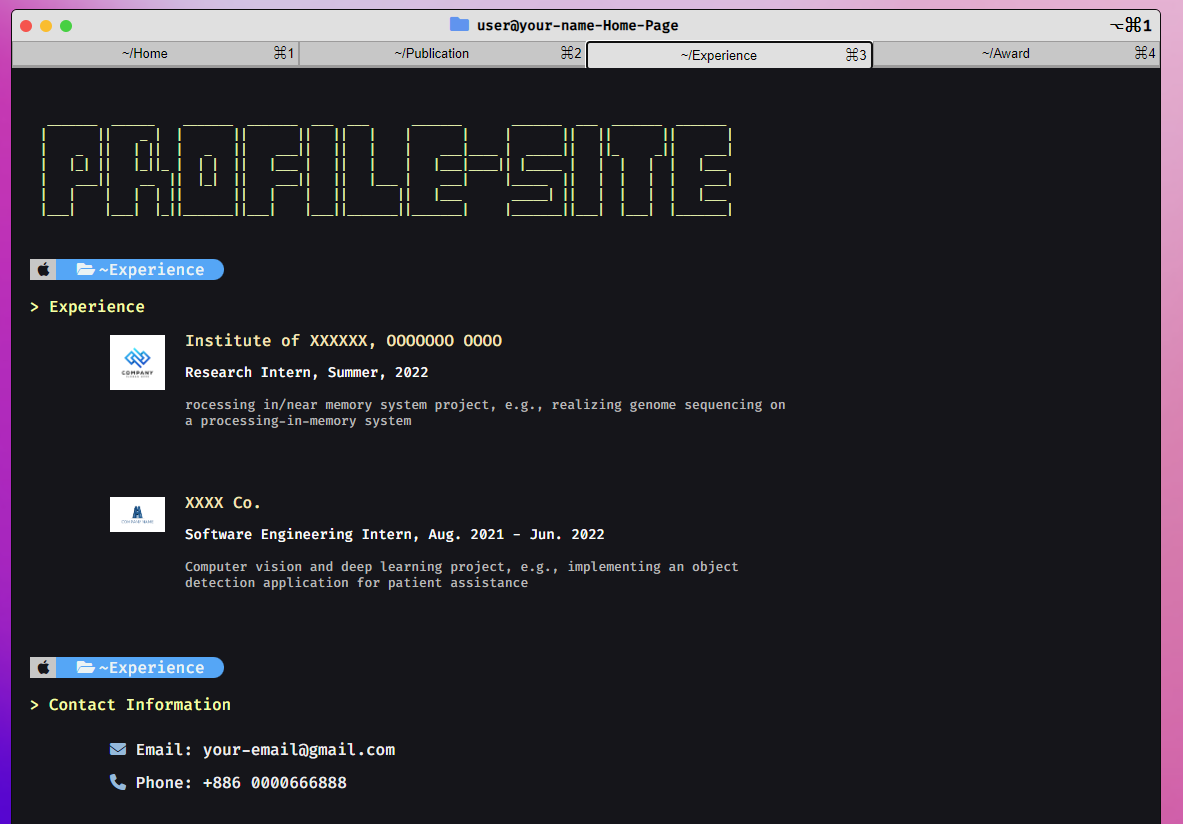
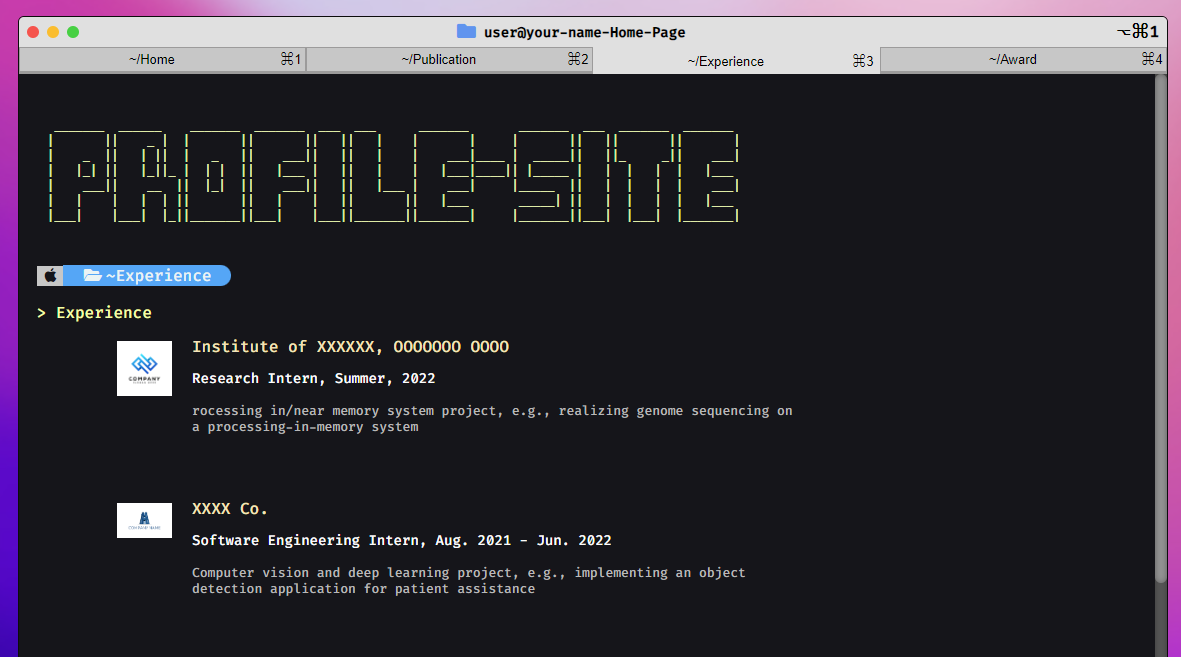
add project

Changed region(s): [[0.0, 0.0, 1.0, 1.0], [0.0914, 0.4871, 0.6706, 0.7306]]

diff --git a/src/App.js b/src/App.js
@@ -3,11 +3,12 @@ import {Intro, Edu} from "./intro";
 import Pub from "./pub";
 import Exp from "./exp";
 import Awd from "./award";
+import Pro from "./pro";
 import { ASCII } from "./tool";
 import {Path, Code, Contact} from "./tool";
 import "./styles/main.css";
 
-const paths = ['~\Home', '~\Publication', '~\Experience', '~\Award', '~\Project'];
+const paths = ['~\Home', '~\Project', '~\Publication', '~\Experience', '~\Award', '~\Project'];
 
 function Intro_content(props) {
 	return (
@@ -19,6 +20,20 @@ function Intro_content(props) {
 			<Path path={paths[props.index-1]}/>
 			<Code command='Education'/>
 			<Edu />
+			<Path path={paths[props.index-1]}/>
+			<Code command='Contact Information'/>
+			<Contact />
+		</div>
+	);
+}
+
+function Pro_content(props) {
+	return (
+		<div id='app'> 
+			<ASCII />
+			<Path path={paths[props.index-1]}/>
+			<Code command='Project'/>
+			<Pro />
 			<Path path={paths[props.index-1]}/>
 			<Code command='Contact Information'/>
 			<Contact />
@@ -73,16 +88,19 @@ function App(props) {
 	  return <Intro_content  index={props.index}/>;
 	}
 	else if (props.index == 2) {
-		return <Pub_content index={props.index}/>;
+		return <Pro_content index={props.index}/>;
 	}
 	else if (props.index == 3) {
-		return <Exp_content  index={props.index}/>;
+		return <Pub_content index={props.index}/>;
 	}
 	else if (props.index == 4) {
+		return <Exp_content  index={props.index}/>;
+	}
+	else if (props.index == 5) {
 		return <Awd_content  index={props.index}/>;
 	}
 	// TODO : Project
-	else if (props.index == 5) {
+	else if (props.index == 6) {
 		return <Intro_content  index={props.index}/>;
 	}	
 }

diff --git a/src/container.js b/src/container.js
@@ -53,22 +53,29 @@ class Container extends Component {
                     </span>
                 </button>
                 <button className={this.state.Index == 2 ? 'active': null} onClick={() => this.goPage(2)}>
-                    <span>~/Publication</span>
+                    <span>~/Project</span>
                     {/* if your are an engineer, just replcae to "Project"  */}
                     <span class="left-command">
                         &#8984;2
                     </span>
                 </button> 
                 <button className={this.state.Index == 3 ? 'active': null} onClick={() => this.goPage(3)}>
-                    <span>~/Experience</span>
+                    <span>~/Publication</span>
+                    {/* if your are an engineer, just replcae to "Project"  */}
                     <span class="left-command">
                         &#8984;3
                     </span>
-                </button>
+                </button> 
                 <button className={this.state.Index == 4 ? 'active': null} onClick={() => this.goPage(4)}>
-                    <span>~/Award</span>
+                    <span>~/Experience</span>
                     <span class="left-command">
                         &#8984;4
+                    </span>
+                </button>
+                <button className={this.state.Index == 5 ? 'active': null} onClick={() => this.goPage(5)}>
+                    <span>~/Award</span>
+                    <span class="left-command">
+                        &#8984;5
                     </span>
                 </button>
             </div>

diff --git a/src/styles/main.css b/src/styles/main.css
@@ -58,7 +58,7 @@ body {
   display:flex;
   flex-direction: column;
   width:100%;
-  width:1150px;
+  max-width:1150px;
   height: 1060px; /* for large screen */
   overflow: hidden;
   border-radius: 6px;
@@ -129,7 +129,7 @@ div.title {
 	text-decoration: none;
 	font-size: 13px;
 	padding: 3.5px;
-	width: 25%; /* Four equal-width links. If you have two links, use 50%, and 33.33% for three links, etc.. */
+	width: 20%; /* Four equal-width links. If you have two links, use 50%; 33.33% for three links, etc.. */
 	text-align: center;
 	background-color: #c7c7c7;
 	font-weight: 100;
@@ -209,7 +209,7 @@ div.bottom-8 {
 	color: #f4feaa;
 }
 
-.intro, .edu, .contact, .pub-list, .exp{
+.intro, .edu, .contact, .pro, .pub-list, .exp{
 	padding-left: 80px;
 	padding-bottom: 40px;
 }
@@ -217,10 +217,10 @@ div.bottom-8 {
 
 .intro span{
 	display: inline-block;
-    vertical-align: top;     /* Vertically align the inline-block elements */
-    height:100%;
-    line-height: 100%;
-    width: 20%;           /* Just for Demo */
+  vertical-align: top;     /* Vertically align the inline-block elements */
+  height:100%;
+  line-height: 100%;
+  width: 20%;           /* Just for Demo */
 	padding: 10px;
 }
 
@@ -445,6 +445,20 @@ div.output a, i {
   color: #95b9db;
   cursor: pointer;
 }
+
+.probox {
+  border: #95b9db;
+  border-style: dashed;
+  border-width: thin;
+  width: 50%;
+  height: 150px;
+}
+.probox img{
+  max-width: 30%;
+  max-height: 100%;
+  overflow: hidden;
+}
+
 
 .fa-github {
   color: white;

diff --git a/src/pub.js b/src/pub.js
@@ -11,7 +11,7 @@ export function Pub() {
                 <b>{paper.title}</b><br/>
                 {paper.author} <br/>
                 {paper.organization}  <br/>
-                <a href={paper.link} target="_blank">[Paper]</a>
+                <a href={paper.link} target="_blank"  rel="noreferrer">[Paper]</a>
             </span></li>
         );
     });
@@ -22,7 +22,7 @@ export function Pub() {
                 <b>{paper.title}</b><br/>
                 {paper.author} <br/>
                 {paper.organization}  <br/>
-                <a href={paper.link} target="_blank">[Paper]</a>
+                <a href={paper.link} target="_blank"  rel="noreferrer">[Paper]</a>
             </span></li>
         );
     });

diff --git a/src/pro.js b/src/pro.js
@@ -1,0 +1,22 @@
+import React from "react";
+// import Pubraw from "./customization/Publication.json";
+import "./styles/main.css";
+
+
+export function Pro() {
+    return (   
+        <div class="pro">
+            <div class="probox">
+                <img src={require("./img/demo.png")} alt="pro"/>
+            </div>
+            <br/>
+            <br/>
+            <div class="probox">
+                <img src={require("./img/demo.png")} alt="pro"/>
+            </div>
+		</div>
+        
+    );
+}
+
+export default Pro;

diff --git a/public/index.html b/public/index.html
@@ -15,8 +15,6 @@
         <link rel="stylesheet" href="https://cdn.jsdelivr.net/gh/jpswalsh/academicons@1/css/academicons.min.css">
       </head>
 <body class="root" id="root">
-  <!-- <div class="root" id="root"></div> -->
   <script src="/bundle.js"></script>
-  </script>
 </body>
 </html>

diff --git a/README.md b/README.md
@@ -39,6 +39,16 @@ npm install
 npm run start
 ```
 customize your website <br>
+modify the title of `public/index.html`, change `User` to your name
+``` html
+<head>
+    <meta charset="UTF-8">
+    <!-- some codes -->
+    <title>User</title>
+    <!-- Put your name here -->
+    <!-- some codes -->
+</head>
+```
 `src/img/me5.png` is your personal image, `src/customization/*.json` is your personal information
 ``` shell
 cd src/customization
